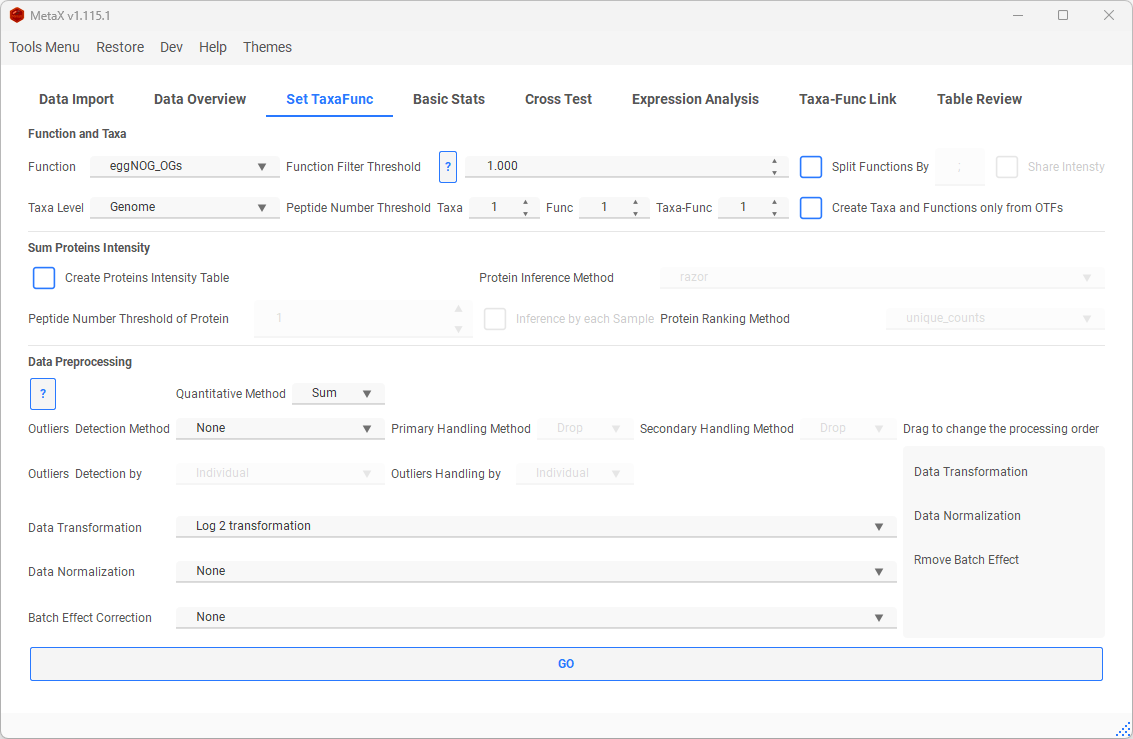
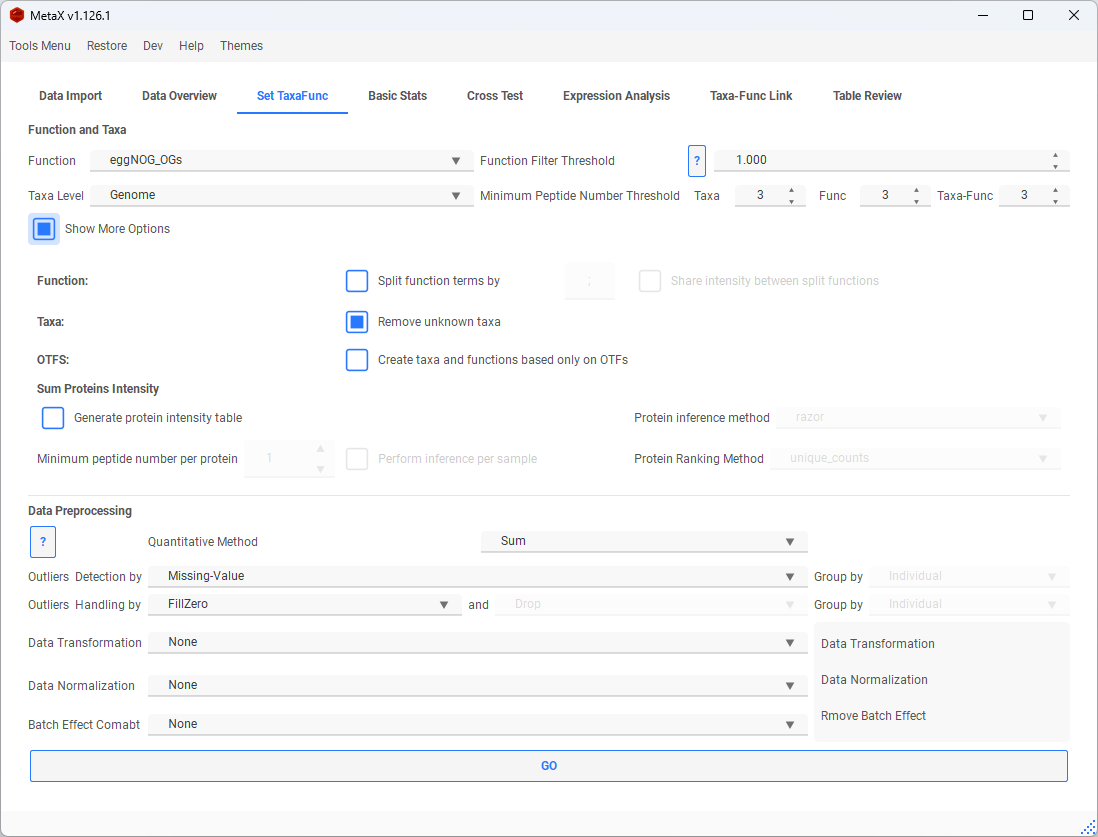
modified:   Docs/MetaX_Cookbook.md

diff --git a/Docs/MetaX_Cookbook.md b/Docs/MetaX_Cookbook.md
@@ -104,6 +104,8 @@ The Data Overview provides basic information about your data, such as the number
 
 - **Taxa Level:** Select a taxa level for downstream analysis (**Life** in the list means no filtering by any taxa, the follow analysis focus on functions).
 
+- **Peptide Number Threshold:**  only keep the taxon (function or OTF) at least has the setting number of peptides.
+
 - **Split Function:** Split the annotations with multi-functions.
 
   - | KO                  | Intensity |
@@ -119,7 +121,16 @@ The Data Overview provides basic information about your data, such as the number
 
     If <u>Share Intensity</u> is checked, the intensity above would given <u>5</u> to each split KO
 
-- **Peptide Number Threshold:**  only keep the taxon (function or OTF) at least has the setting number of peptides.
+- **Remove unknown taxa:** Checked by default. When enabled, peptides that are not annotated to the selected taxonomic level will be removed.
+   When unchecked, such peptides will be retained and labeled as *unknown*, for example:
+
+  ```
+  d__Bacteria;p__Firmicutes_A;c__Clostridia;o__Oscillospirales;f__Ruminococcaceae;g__UMGS363;s_
+  to
+  d__Bacteria;p__Firmicutes_A;c__Clostridia;o__Oscillospirales;f__Ruminococcaceae;g__UMGS363;s_unknown
+  ```
+
+  
 
 - **Create Taxa and Func only from OTFs:**
 
@@ -134,9 +145,10 @@ The Data Overview provides basic information about your data, such as the number
 
 ### Sum Proteins Intensity
 
-Click **Create Proteins Intensity Table** to sum peptides to proteins if the Protein column is in the original table.
+Click **Generate Protein Intensity Table** to sum peptides to proteins if the Protein column is in the original table.
 
 - **Occam's Razor**, **Anti-Razor** and **Rank:** Methods available for inferring shared peptides.
+  
   - Razor:
     1. Build a minimal set of proteins to cover all peptides.
     2. For each peptide, choose the protein with the most peptides (if multiple proteins have the same number of peptides, share intensity to them).
@@ -153,13 +165,15 @@ Click **Create Proteins Intensity Table** to sum peptides to proteins if the Pro
     >- shared_intensity: Use the intensity divided by the number of shared peptides for each protein.
     
 
+- **Minimum peptide number per protein:** Filters out proteins that contain fewer peptides than the specified threshold.
+
 ### Data preprocessing
 
 - **Quantitative Method：**
 
   - **<u>Sum</u>**: Sum the peptides intensity directly to Taxa, Functions or OTFs intensity.
 
-  - **<u>DirecteLFQ</u>**: Using DirecteLFQ to normalize the peptides and then estimate the intensity by using  *intensity traces*.
+  - **<u>DirectLFQ</u>**: Using DirectLFQ to normalize the peptides and then estimate the intensity by using  *intensity traces*.
 
     
 
@@ -180,14 +194,28 @@ There are several methods for detecting and handling outliers.
   
   - **Missing-Value:** Detect nan values in the data. If a value is nan, it will be marked as a NaN.
   
-  - **Half-Zero:** This rule applies to groups of data. If more than half of the values in a group are 0, while the rest are non-zero, then the non-zero values are marked as NaN. Conversely, if less than half of the values are 0, then the zero values are marked as NaN. If the group contains an equal number of 0 and non-zero values, all values in the group are marked as NaN.
+  - **Half-Zero:** 
   
-  - **Zero-Dominant:** This rule applies to groups of data. If more than half of the values in a group are 0, then the non-zero values are marked as NaN.
+    	Applies to grouped data.
+  
+    - If more than half of the values in a group are zero, all *non-zero* values are replaced with NaN.
+  
+    - If fewer than half of the values are zero, all *zero* values are replaced with NaN.
+    - If the number of zero and non-zero values is equal, *all* values in the group are replaced with NaN.
+  
+  - **Zero-Dominant:** 
+  
+    	Applies to grouped data.
+  
+    - If more than half of the values in a group are zero, all *non-zero* values are replaced with NaN.
+    - Otherwise, the group remains unchanged.
   
   - **Zero-Inflated Poisson:** This method is based on the Zero-Inflated Poisson (ZIP) model, which is a type of model that is used when the data contains a lot of zeros, more than what is expected in a standard Poisson model. In this context, the ZIP model is used to detect outliers in the data. The process involves fitting the ZIP model to the data and then predicting the data values. If the predicted value is less than 0.01, then the data point is marked as an outlier (NaN).
   
   - **Negative Binomial:** This method is based on the Negative Binomial model, which is a type of model used when the variance of the data is greater than the mean. Similar to the ZIP method, the Negative Binomial model is fitted to the data and then used to predict the data values. If the predicted value is less than 0.01, then the data point is marked as an outlier (NaN).
+  
   - **Z-Score:** Z-score is a statistical measure that tells how far a data point is from the mean in terms of standard deviations. Outliers are often identified as points with Z-scores greater than 2.5 or less than -2.5.
+  
   - **Mahalanobis Distance:** Mahalanobis distance measures the distance between a point and a distribution, considering the correlation among variables. Outliers can be identified as points with a Mahalanobis distance that exceeds a certain threshold.
 
 	<u>In all methods, You can choose detection outliers by a meta column, and a meta to handle the outliers.</u>
@@ -420,7 +448,7 @@ We can select <u>**meta**</u> <u>**groups**</u> or <u>**samples**</u> (default a
 - Significant comparing enables us to find the result of **<u>The taxa between the two groups showing no significant differences, while the related functions are significantly different</u>** and function no significant but relted taxa significant.
 - ![Significant_Taxa-Func](MetaX_Cookbook.assets/Significant_Taxa-Func.png)
 
-### Plot Corss Heatmap
+### Plot Cross Heatmap
 
 - The **result** of the T-test and ANOVA Test will show in a new window
 
